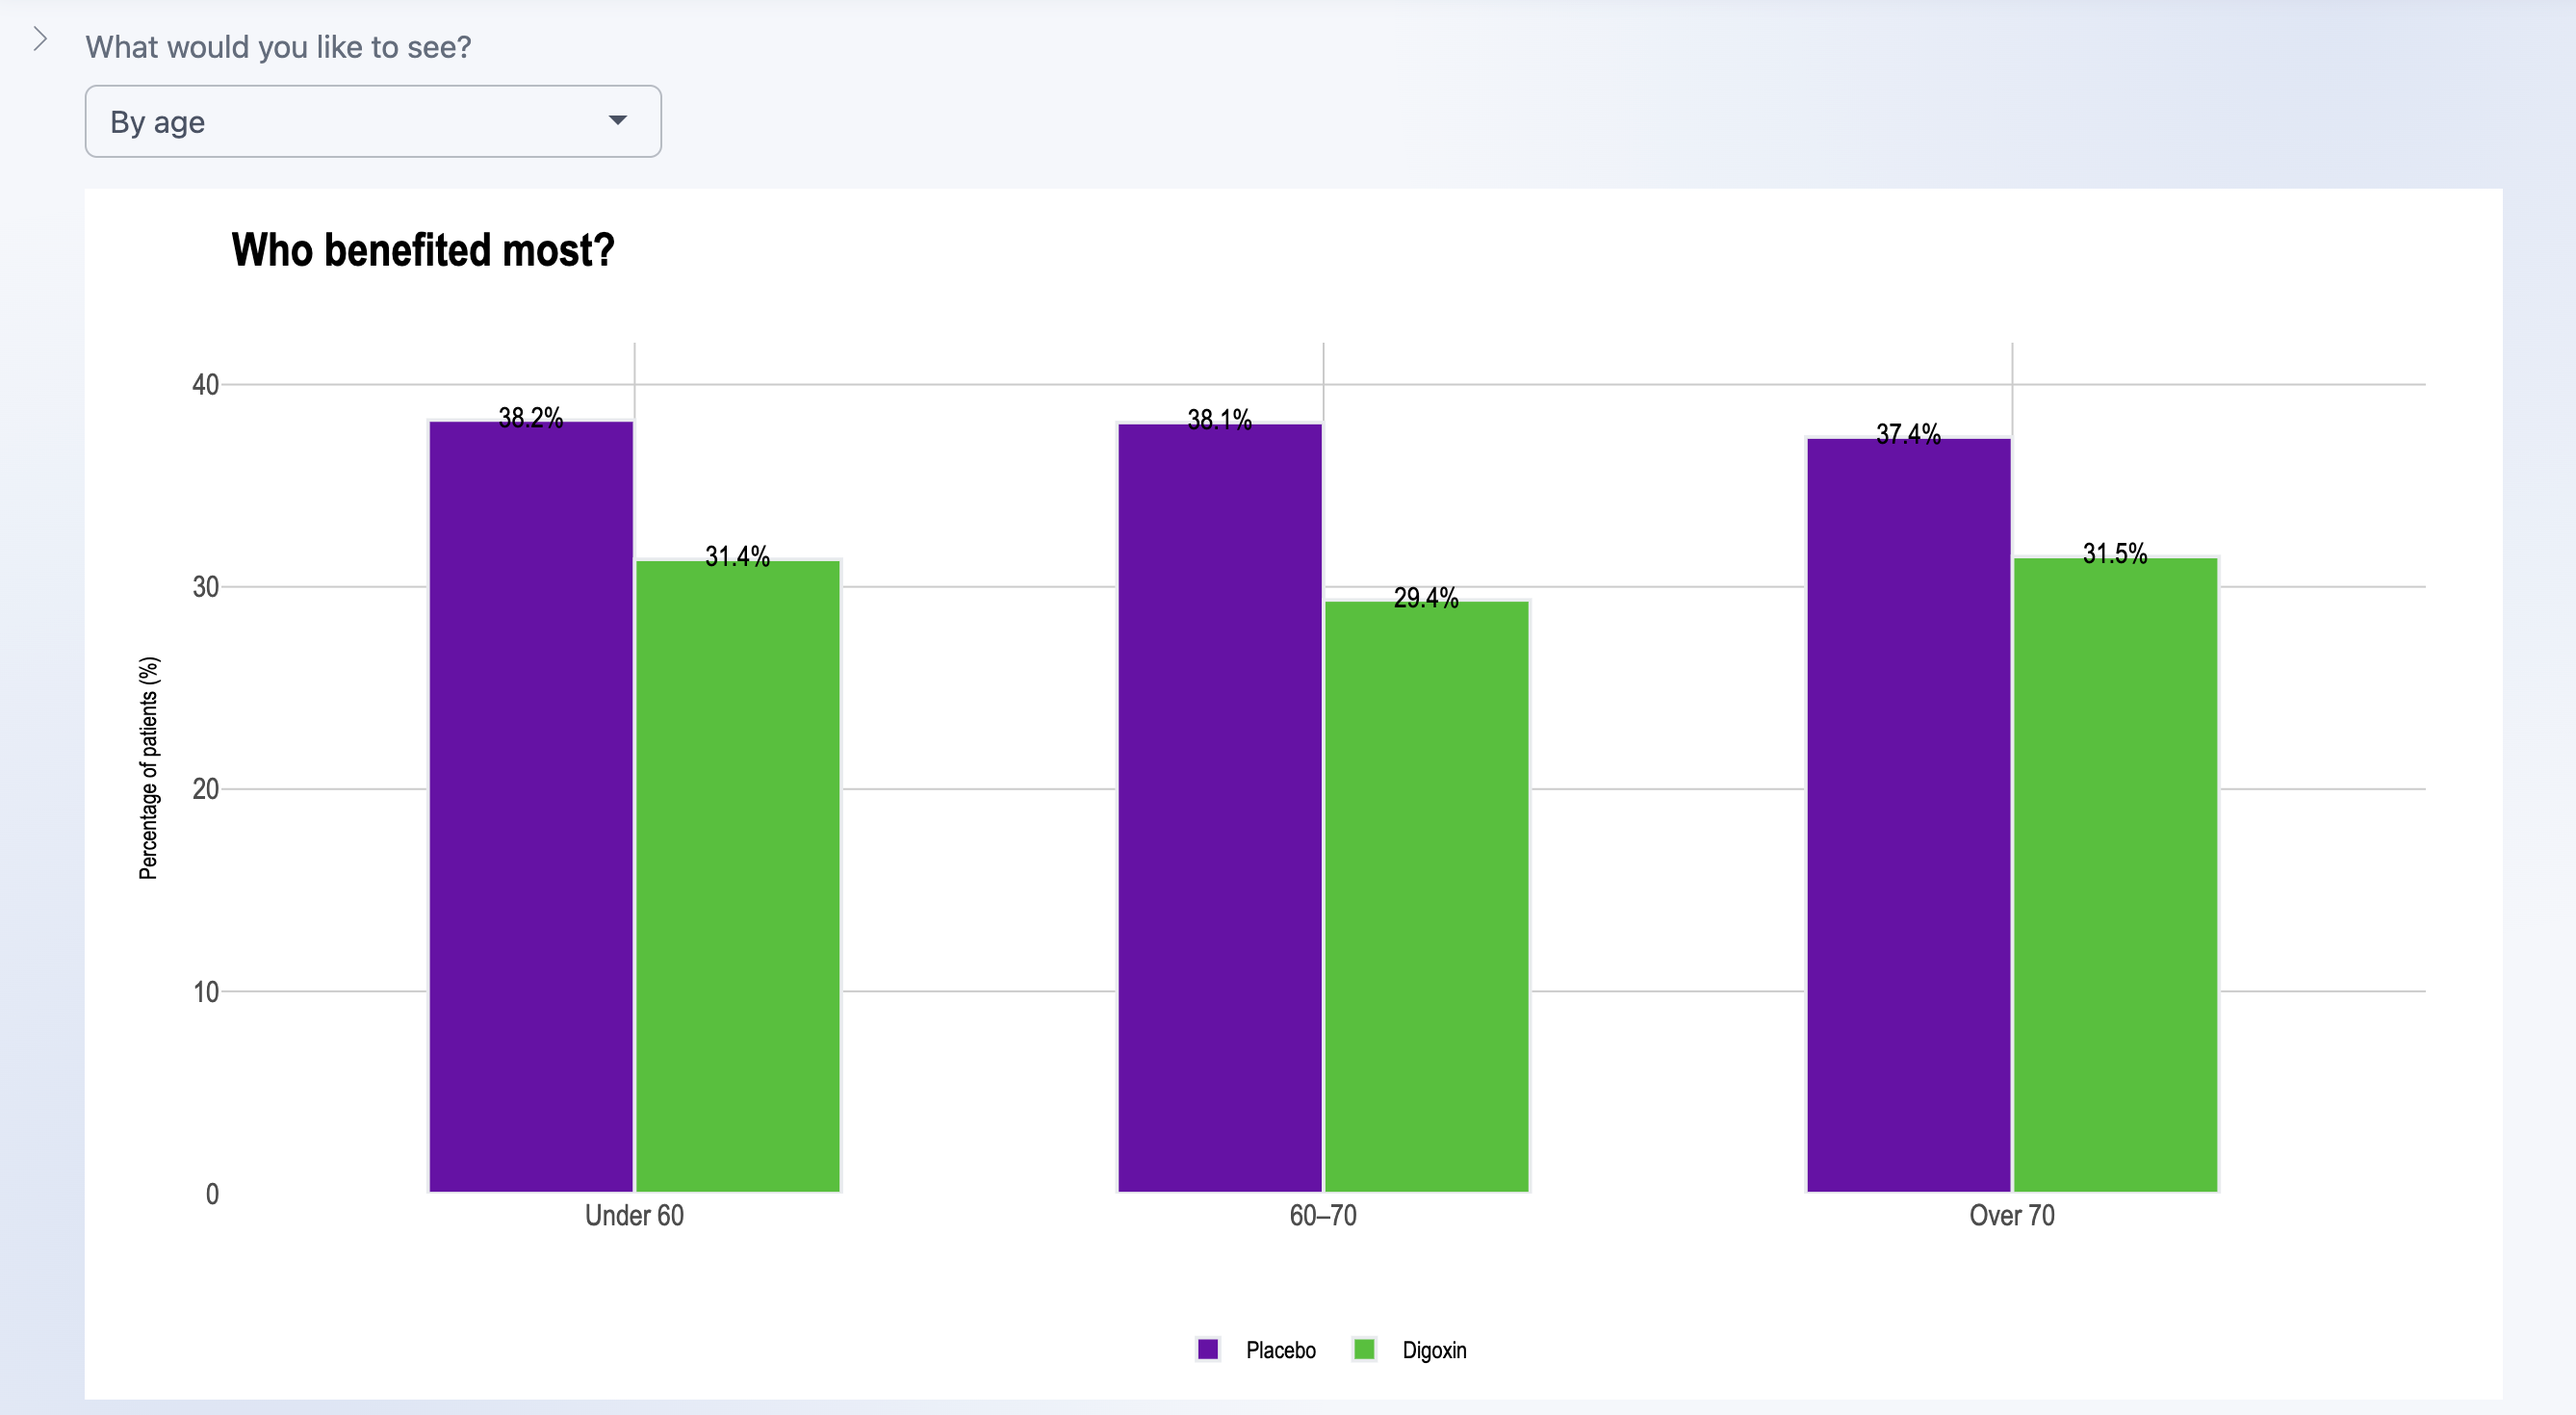
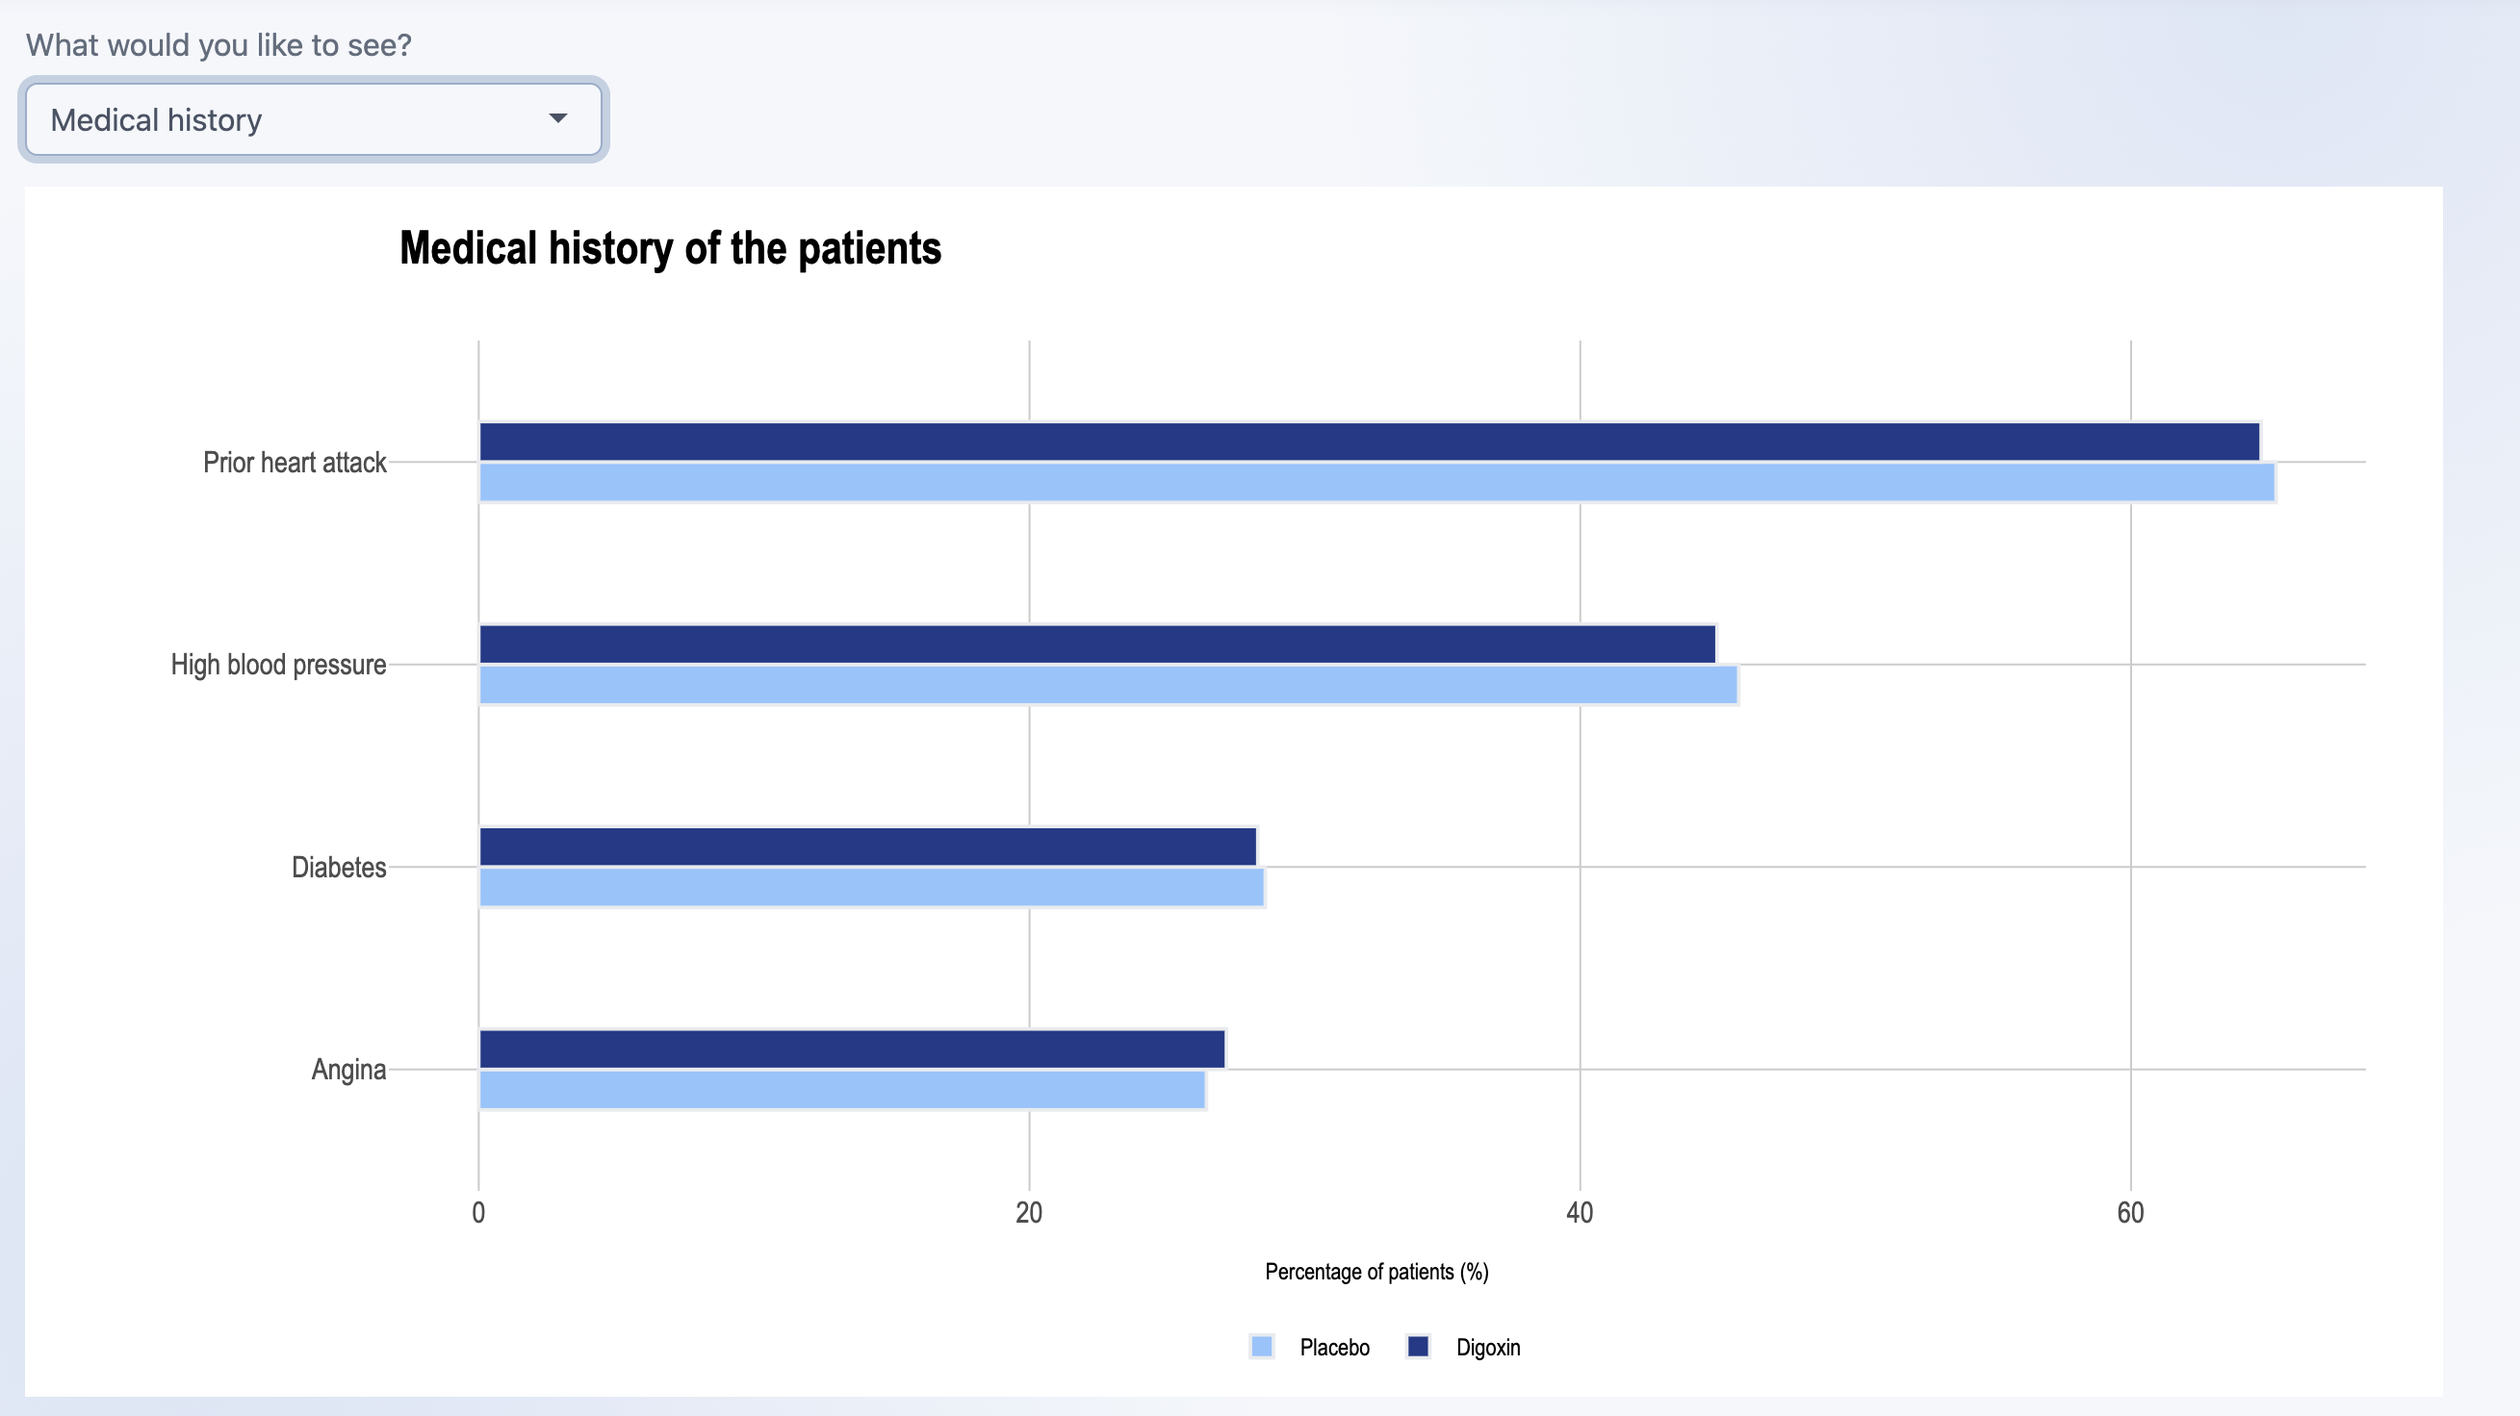
Update Basic chart colours, add trial deployment to shinyapps.io and README images

diff --git a/README.md b/README.md
@@ -24,4 +24,4 @@ Basic mode is designed for people with no medical or statistics background. To k
 
 ![Who benefited most? Results by age group](docs/images/benefit.png)
 
-Hover over any chart to see the exact numbers.
+- Live app: https://isla-yao.shinyapps.io/HDS5105-DIG-Trial-Shiny-App/
